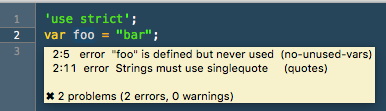
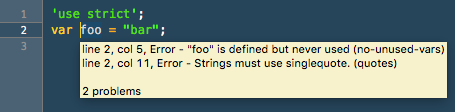
feat(xo execution): Add customizable executable and run options
Always run with --compact, from TM_PROJECT_DIRECTORY. Support TM_XO and TM_XO_OPTIONS env vars to
give greater control.

docs(README): Add information about env variables, update screenshot

Add information about how to update with tmb, how to use TM_XO and TM_XO_OPTIONS variables, and
update screenshot to show line and column positioning.

docs(CHANGELOG): Add a change log, like a civilized human being.

diff --git a/README.md b/README.md
@@ -6,12 +6,18 @@ JavaScript happiness style on-save in TextMate 2.
 
 Use [XO](https://www.npmjs.com/package/xo) to manage your project's coding style, and make sure each save is conforming to style rules.
 
-## Install
+## Install/Update
 
 Recommended installation is via `tmb`, the [TM Bundles manager](https://github.com/elia/tmbundle-manager).
 
 ```shell
 $ tmb install claylo/XO
+```
+
+Stay current with:
+
+```shell
+$ tmb update XO
 ```
 
 If that's not your thing, you may also install directly from `git`.
@@ -31,6 +37,15 @@ Before using this bundle, you must ensure that XO is installed on your system. Y
 ```shell
 $ npm install --global xo
 ```
+
+## Customizing XO Execution
+
+If configuration for XO is stored in the project's `package.json` file, XO.tmbundle will pick up that configuration correctly (as of v1.1.0). If XO control is needed but not desired in `package.json`, the `TM_XO` and `TM_XO_OPTIONS` bundles are supported in any `.tm_properties` file. For example:
+
+    TM_XO = "$TM_PROJECT_DIRECTORY/node_modules/.bin/xo"
+    TM_XO_OPTIONS = "--space --esnext"
+    
+Without `TM_XO` specified, `/usr/bin/env xo` is used to run the command.
 
 ## License
 

diff --git a/CHANGELOG.md b/CHANGELOG.md
@@ -1,0 +1,22 @@
+# Change Log
+All notable changes to this bundle will be documented in this file. XO.tmbundle adheres to [Semantic Versioning](http://semver.org/).
+
+## [1.1.0] - 2015-11-25
+### Added
+- Support for `TM_XO` and `TM_XO_OPTIONS` environment variables to control XO's execution.
+- A change log, like a civilized human being.
+
+### Changed
+- Always run with `--compact` option to make messages easier to manage.
+- Switch to `TM_PROJECT_DIRECTORY` prior to running XO, so that `package.json` configuration will be recognized.
+- Cursor will now move to line _and_ column of the first error found.
+- Updated screenshot.png to show line-and-column-hotness.
+
+### Fixed
+- Wrap file path in quotes to avoid occasional oddities causing TextMate to open (or try to open) far more files than intended.
+
+## 1.0.0 - 2015-10-03
+- Initial release. Whee!
+
+[Unreleased]: https://github.com/claylo/XO.tmbundle/compare/v1.1.0...HEAD
+[1.1.0]: https://github.com/claylo/XO.tmbundle/compare/v1.0.0...v1.1.0
